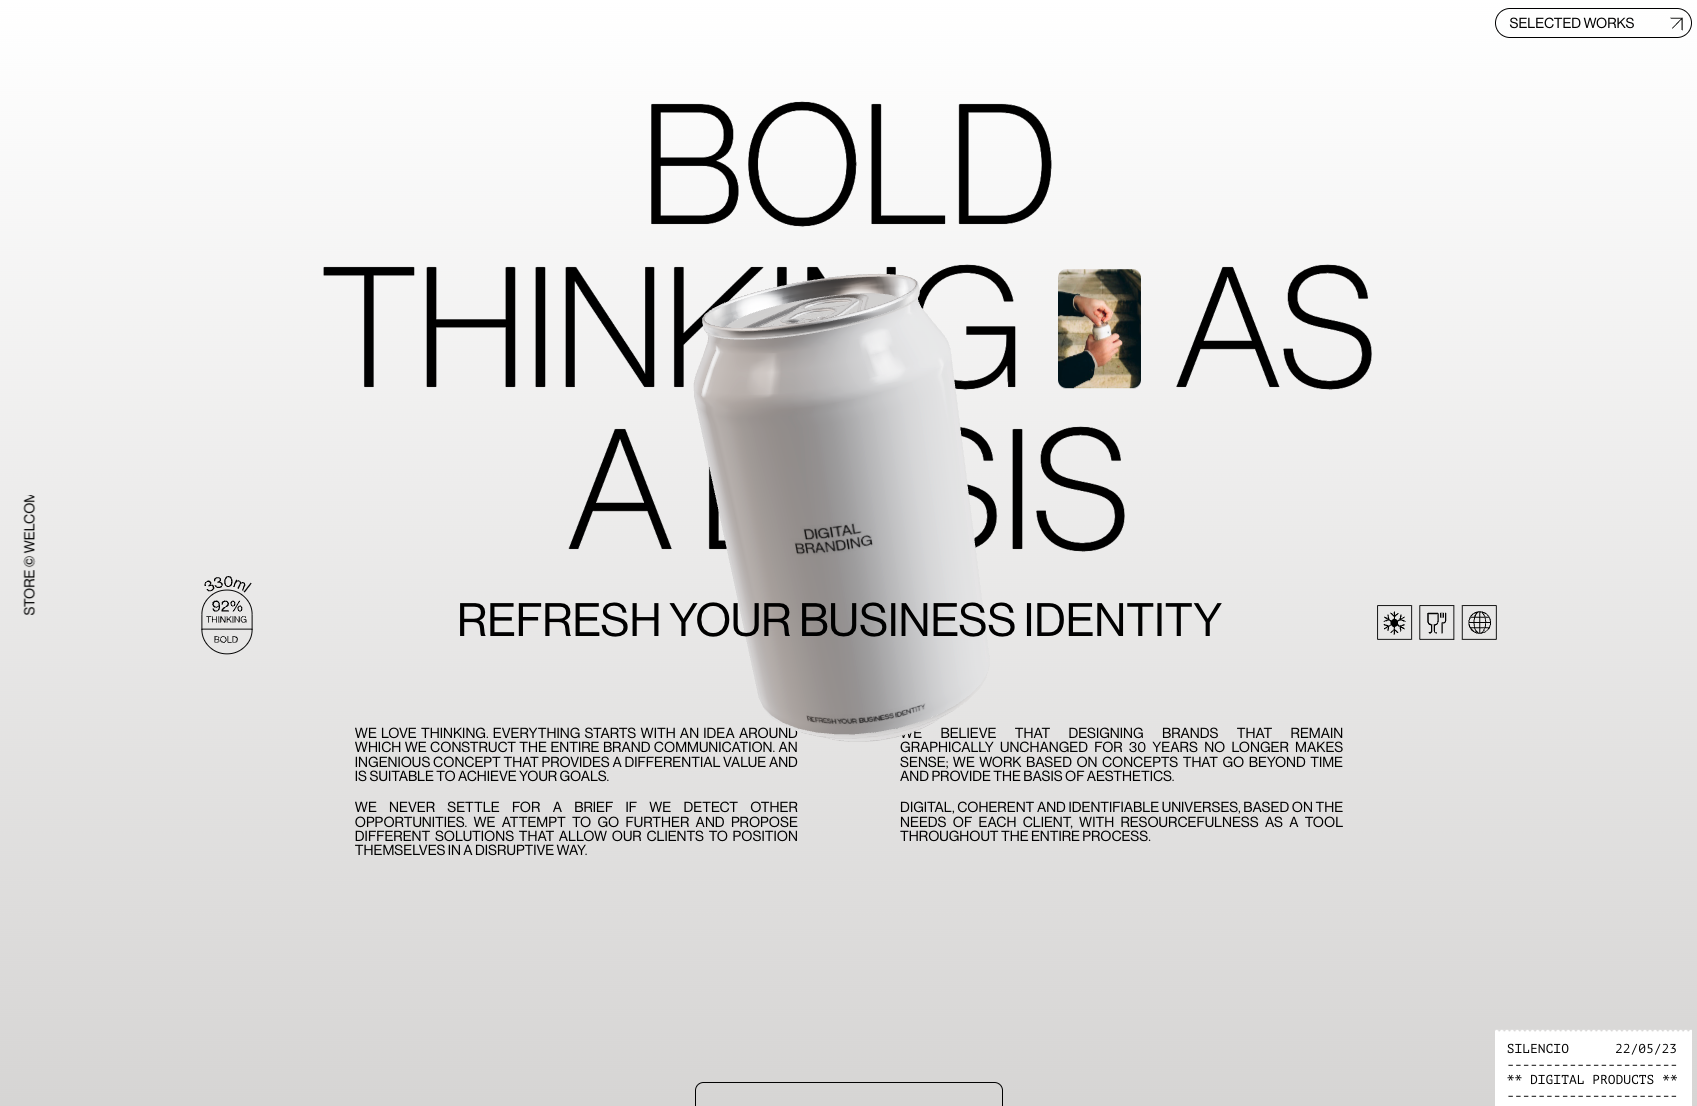
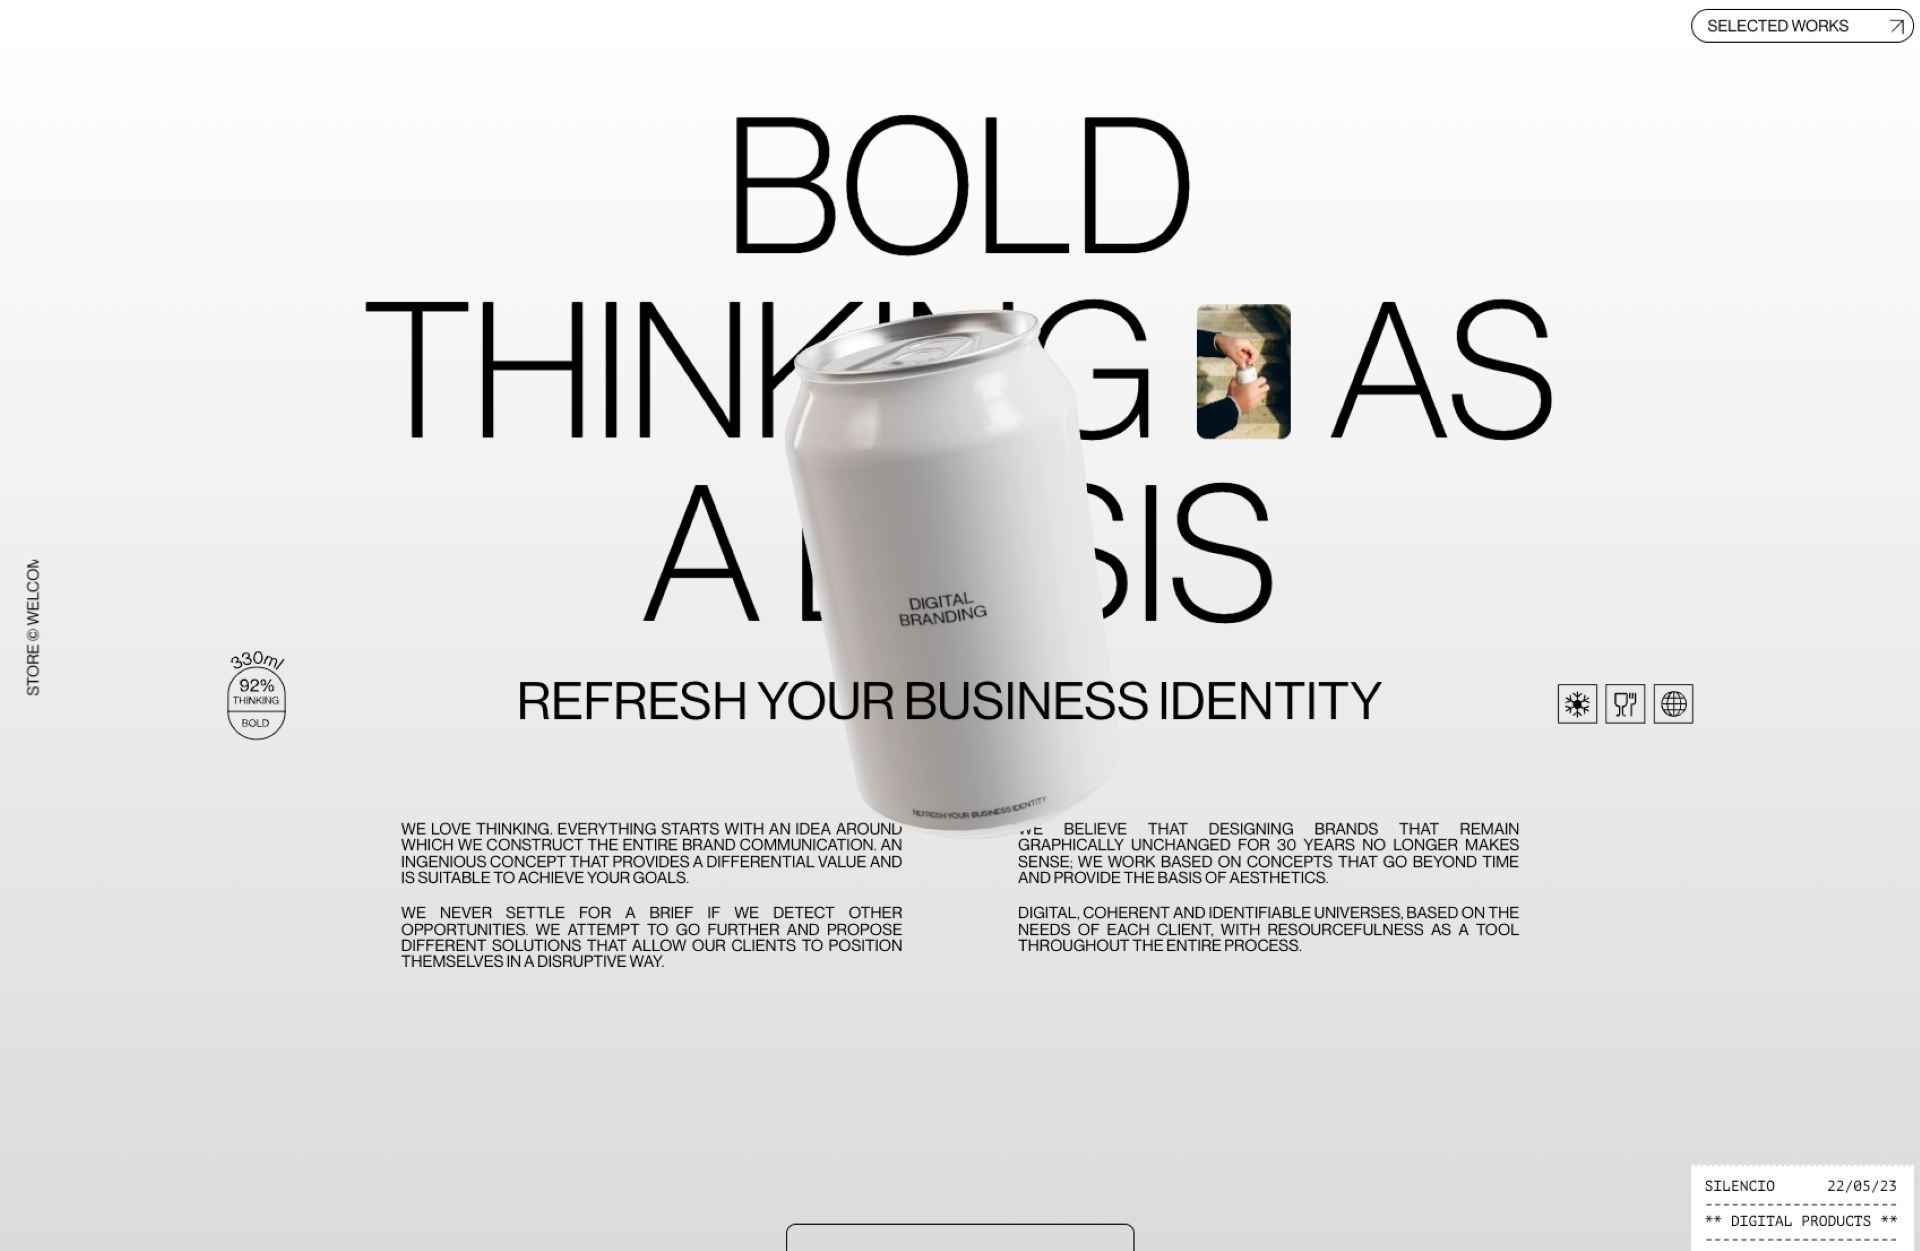
Changes : project modal ui and updated project images

diff --git a/lib/data.ts b/lib/data.ts
@@ -4,9 +4,11 @@ import { FaReact } from 'react-icons/fa'
 import { LuGraduationCap } from 'react-icons/lu'
 
 // Images
-import figurestoreImg from '@/public/assets/projects/figure-store.png'
-import hashiraImg from '@/public/assets/projects/hashira.png'
 import silencioImg from '@/public/assets/projects/silencio.png'
+import figureStoreImg from '@/public/assets/projects/figure-store.png'
+import hashiraImg from '@/public/assets/projects/hashira.png'
+import portfolioImg from '@/public/assets/projects/portfolio.png'
+import portfolioOldImg from '@/public/assets/projects/portfolio-old.png'
 
 export const socials = [
 	{
@@ -75,39 +77,48 @@ export const experiencesData = [
 
 export const projectsData = [
 	// FAKE PROJECT NAMED SILENCIO
-	{
-		title: 'Silencio',
-		description: 'Un projet de UI/UX',
-		tags: ['React', 'Scss', 'All'],
-		url: 'https://silencio.vercel.app/',
-		image: silencioImg,
-		color: '#f7f7f7',
-	},
+	// {
+	// 	title: 'Silencio',
+	// 	description: 'Un projet de UI/UX',
+	// 	tags: ['React', 'Scss', 'All'],
+	// 	url: 'https://silencio.vercel.app/',
+	// 	image: silencioImg,
+	// 	color: '#f7f7f7',
+	// },
 	{
 		title: 'Figure Store',
 		description:
-			'Mon premier projet e-commerce. Le thème de celui-ci est en lien avec la pop culture, à savoir les figurines.',
+		'Mon premier projet e-commerce. Le thème de celui-ci est en lien avec la pop culture, à savoir les figurines.',
 		tags: ['React', 'Next.js', 'Framer', 'Sanity', 'All'],
 		url: 'https://massy-store.vercel.app/',
-		image: silencioImg,
-		color: '#f7f7f7',
-	},
-	{
-		title: 'Portfolio (ancien)',
-		description:
-			'Mon ancien portfolio de développeur (celui-ci est toujours en ligne, mais ne sera plus mis à jour).',
-		tags: ['React', 'Framer', 'Sanity.io', 'All'],
-		url: 'https://massy-haddad.vercel.app/',
-		image: silencioImg,
+		image: figureStoreImg,
 		color: '#f7f7f7',
 	},
 	{
 		title: 'Hashira',
 		description:
-			"Un projet de UI/UX dans lequel j'ai implémenté une maquette de Figma. (Crédit à l'auteur de la maquette : Adi Bivaga)",
+		"Un projet de UI/UX dans lequel j'ai implémenté une maquette de Figma. (Crédit à l'auteur de la maquette : Adi Bivaga)",
 		tags: ['React', 'Scss', 'All'],
 		url: 'https://hashira.vercel.app/',
 		image: hashiraImg,
+		color: '#f7f7f7',
+	},
+	{
+		title: 'Portfolio',
+		description:
+			"Mon portfolio de développeur. J'ai décidé de le refaire pour qu'il soit plus moderne et plus performant.",
+		tags: ['React', 'Framer', 'All'],
+		url: 'https://massy.vercel.app/',
+		image: portfolioImg,
+		color: '#f7f7f7',
+	},
+	{
+		title: 'Portfolio (old)',
+		description:
+			'Mon ancien portfolio de développeur (celui-ci est toujours en ligne, mais ne sera plus mis à jour).',
+		tags: ['React', 'Framer', 'Sanity.io', 'All'],
+		url: 'https://massy-haddad.vercel.app/',
+		image: portfolioOldImg,
 		color: '#f7f7f7',
 	},
 ] as const

diff --git a/components/ui/modal.tsx b/components/ui/modal.tsx
@@ -57,35 +57,35 @@ export default function modal({
 			initial="initial"
 			animate={active ? 'open' : 'closed'}
 			id="modal"
-			className="absolute h-[250px] w-[350px] rounded-md overflow-hidden pointer-events-none
-            backdrop-filter backdrop-blur-lg backdrop-saturate-[180%] bg-[rgba(17,_25,_40,_0.75)] rounded-[12px] border-[1px] border-[solid] border-[rgba(255,255,255,0.125)]"
+			className="p-1 absolute flex flex-col justify-between h-[250px] w-[350px] rounded-xl pointer-events-none overflow-hidden bg-[#a1a1a1] backdrop-filter backdrop-blur-md"
 		>
-			<div id="tools" className="flex items-center w-full gap-1 p-2">
-				{[1, 2, 3].map((item) => (
-					<span className="bg-[#515151] inline-block w-3 h-3 p-1 rounded-full" />
+			<div
+				id="tools"
+				className="relative flex items-center w-full gap-1 p-1 mix-blend-difference"
+			>
+				{[1, 2, 3].map(() => (
+					<span className="bg-[#515151] inline-block p-1 rounded-full" />
 				))}
 			</div>
 
-			<div
-				style={{ top: index * -100 + '%' }}
-				className="absolute h-full w-full mt-3 p-[3px] transition-[top] duration-500 ease-[cubic-bezier(0.76,0,0.24,1)]"
-			>
-				{projectsData.map((project: ProjectProps, index) => {
-					return (
-						<div
-							className="relative flex items-center justify-center h-full w-full"
-							key={index}
-						>
+			<div className="relative flex items-center justify-center flex-row h-full w-full rounded-lg overflow-hidden">
+				<div
+					style={{ top: index * -100 + '%' }}
+					className="absolute h-full w-full transition-[top] duration-500 ease-[cubic-bezier(0.76,0,0.24,1)]"
+				>
+					{projectsData.map((project: ProjectProps, index) => {
+						return (
 							<Image
+								key={index}
 								src={project.image}
 								alt={'Image of project' + project.title}
-								width={300}
-								height={0}
-								className="h-auto w-full rounded-md"
+								width={0}
+								height={300}
+								className="w-full h-full object-cover"
 							/>
-						</div>
-					)
-				})}
+						)
+					})}
+				</div>
 			</div>
 		</motion.div>
 	)

diff --git a/components/ui/project.tsx b/components/ui/project.tsx
@@ -15,10 +15,10 @@ export default function project({
 			onMouseEnter={() => setModal({ active: true, index })}
 			onMouseLeave={() => setModal({ active: false, index })}
 		>
-			<h2 className="text-3xl font-normal group-hover:-translate-x-4 transition-all duration-200 ease-linear">
+			<h2 className="text-5xl font-normal group-hover:-translate-x-4 transition-all duration-200 ease-linear">
 				{title}
 			</h2>
-			<p className="font-light group-hover:-translatex-4 transition-all duration-200 ease-linear">
+			<p className="text-xl font-light group-hover:-translatex-4 transition-all duration-200 ease-linear">
 				Design & Development
 			</p>
 		</div>

diff --git a/app/page.tsx b/app/page.tsx
@@ -24,7 +24,7 @@ export default function Home() {
 	const stickyElement = useRef(null)
 
 	return (
-		<main>
+		<main className="divide-y divide-opacity-5">
 			{/* <Banner /> */}
 			<Cursor stickyElement={stickyElement} />
 			<Header />
